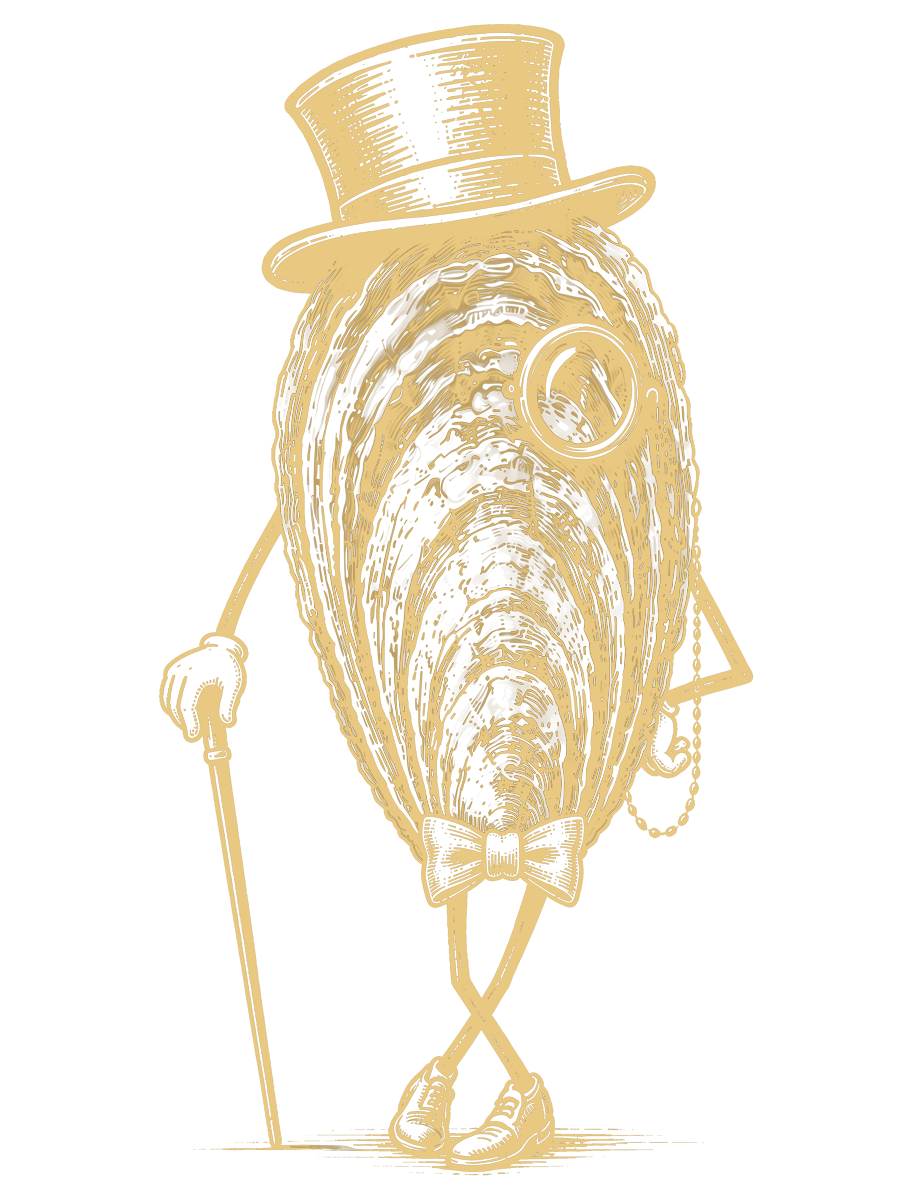
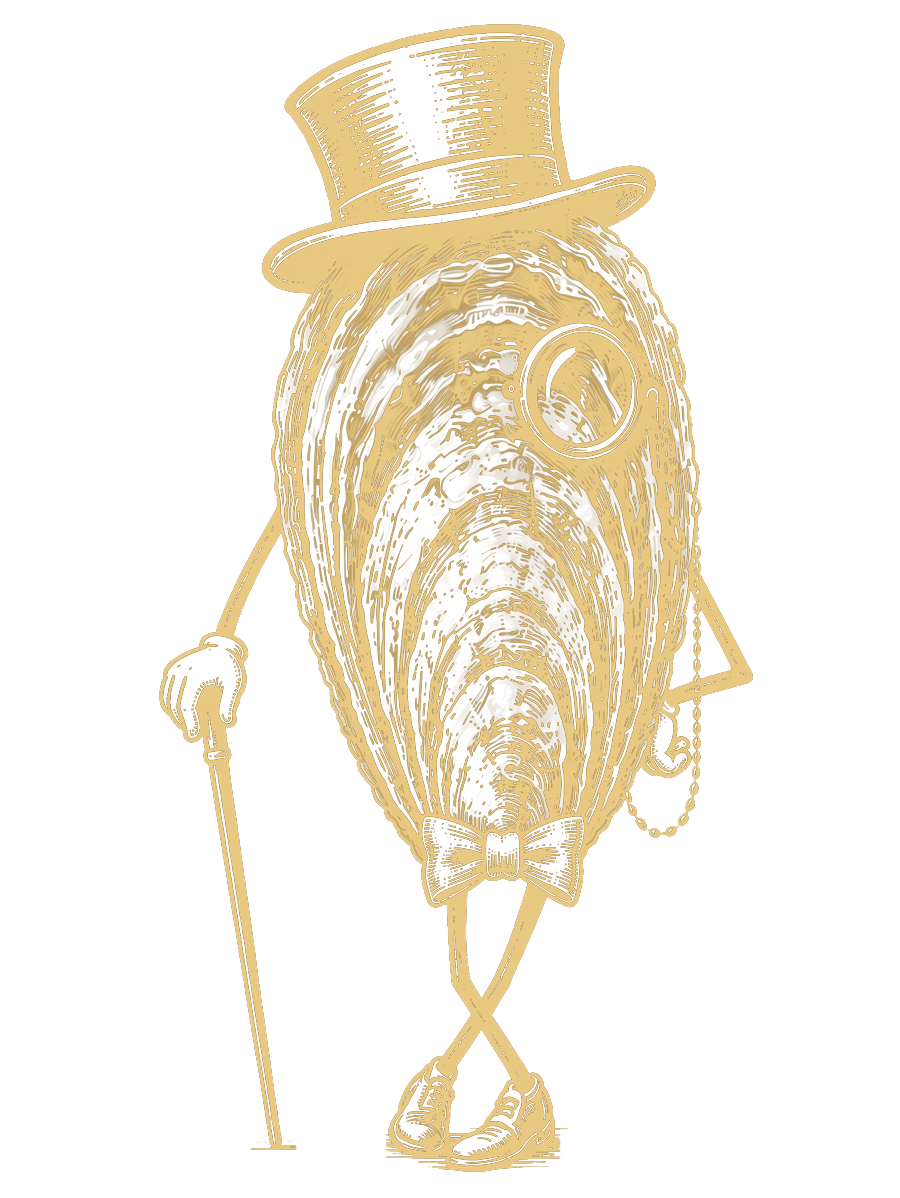
Maquettes : Navy N1 retravaillée (4 placements), Gold fondue (4 rendus), Gentleman mieux détouré
Claude-Session: https://claude.ai/code/session_012ueJSkHMqbZpvX7x5D3Dw2

diff --git a/drevici-preview/cabine/beltab-cartes-v3.html b/drevici-preview/cabine/beltab-cartes-v3.html
@@ -35,6 +35,8 @@ h1{margin:0 0 4px;font-size:26px;letter-spacing:-.02em}.sub{margin:0 0 22px;colo
 <section class="sec" id="gold"><h1>Carte VIP · Gold</h1><p class="sub">Pour les clients les plus fidèles. DREVICI OYSTER sur une ligne, « Carte membre · Gold », plus de « Gentleman Oyster », n° tout à droite.</p><div class="g" id="gGold"></div></section>
 <section class="sec" id="noir"><h1>Carte Staff · Noir</h1><p class="sub">Pour l'équipe. DREVICI / OYSTER sur deux lignes plus espacées, « Carte staff · 001 », « Membre depuis » remonté à la hauteur du code.</p><div class="g" id="gNoir"></div></section>
 <section class="sec" id="gold2"><h1>Carte VIP · Gold (or brossé + cadre)</h1><p class="sub">L'or passe en fond, le Gentleman en couleur bien visible, le double cadre de G2, et « Gold » placé autrement.</p><div class="g" id="gGold2"></div></section>
+<section class="sec" id="navy2"><h1>Carte Membre · Navy (N1 retravaillée)</h1><p class="sub">Fond uni de N4, cadre doré, filet rouge, BZH en or, Gentleman détouré proprement (plus de blanc entre les bras ni sous les pieds). 4 façons de placer « Carte membre ».</p><div class="g" id="gNavy2"></div></section>
+<section class="sec" id="gold3"><h1>Carte VIP · Gold, Gentleman fondu dans l'or</h1><p class="sub">Même carte (or brossé + double cadre, « Carte Gold »), 4 façons de fondre le Gentleman dans l'or.</p><div class="g" id="gGold3"></div></section>
 <section class="sec" id="carbone"><h1>Carte Staff · Carbone</h1><p class="sub">Base S4 carbone, « STAFF » en rouge, rouge très léger, 001 remonté.</p><div class="g" id="gCarb"></div></section>
 <script>
 const M='<img class="masc" src="gentleman.png" alt="" style="__">';
@@ -188,7 +190,63 @@ V.gold2=[['V1 · « Gold » en bas à droite','« Carte membre » en haut, et le
     <div class="wm1" style="left:26px;top:24px;color:#2b1f0b">DREVICI OYSTER</div><div class="bzh" style="left:26px;top:58px;color:#6b4b14">BZH<svg viewBox="0 0 24 24" width="10" height="10" fill="none" stroke="currentColor" stroke-width="2.4" stroke-linecap="round" style="vertical-align:-1px;margin-left:4px"><circle cx="12" cy="5" r="2.2"/><path d="M12 7.5V21M7 11h10M4.5 14.5c1 4 4 6.5 7.5 6.5s6.5-2.5 7.5-6.5"/></svg></div>
     <div class="kind" style="left:26px;top:94px;color:#6b4b14">Carte membre</div><div class="chip" style="left:26px;top:114px"></div><div class="no" style="right:26px;bottom:24px;color:#6b4b14">Gold · membre n°<b style="color:#2b1f0b">001</b></div>
     <div class="name" style="left:26px;bottom:46px;color:#2b1f0b">WILL</div><div class="code" style="left:26px;bottom:26px;color:#3a2a0c">CLUB · 4F7K</div>`]];
-const cls={navy:'navy',gold:'gold',noir:'noir',carbone:'noir',gold2:'gold'}, tgt={navy:'gNavy',gold:'gGold',noir:'gNoir',carbone:'gCarb',gold2:'gGold2'};
+
+V.navy2=[['A · Plus de « Carte membre »','Le mot disparaît : « Membre n° 001 » en bas à droite suffit à dire ce que c\'est. La carte respire.',`<div style="inset:9px;border:1px solid rgba(240,217,168,.6);border-radius:12px"></div>
+    ${M.replace('__','right:64px;filter:drop-shadow(0 6px 10px rgba(0,0,0,.4))')}
+    <div class="wm1" style="left:24px;top:22px">DREVICI OYSTER</div><div style="left:24px;top:53px;width:150px;height:2px;background:#d6413b"></div>
+    <div class="bzh" style="left:24px;top:62px;color:#f0d9a8">BZH<svg viewBox="0 0 24 24" width="10" height="10" fill="none" stroke="currentColor" stroke-width="2.4" stroke-linecap="round" style="vertical-align:-1px;margin-left:4px"><circle cx="12" cy="5" r="2.2"/><path d="M12 7.5V21M7 11h10M4.5 14.5c1 4 4 6.5 7.5 6.5s6.5-2.5 7.5-6.5"/></svg></div>
+    <div class="chip" style="left:24px;top:116px"></div>
+    <div class="name emb" style="left:24px;bottom:46px">WILL</div><div class="code" style="left:24px;bottom:26px;color:#cfd8ea">CLUB · 4F7K</div>
+    <div class="no" style="right:24px;bottom:24px;color:#9fb0d0">Membre n°<b style="color:#fff">001</b></div>`],['B · « Membre » au-dessus du nom','Un petit « Membre » doré juste au-dessus de WILL, comme sur une vraie carte bancaire.',`<div style="inset:9px;border:1px solid rgba(240,217,168,.6);border-radius:12px"></div>
+    ${M.replace('__','right:64px;filter:drop-shadow(0 6px 10px rgba(0,0,0,.4))')}
+    <div class="wm1" style="left:24px;top:22px">DREVICI OYSTER</div><div style="left:24px;top:53px;width:150px;height:2px;background:#d6413b"></div>
+    <div class="bzh" style="left:24px;top:62px;color:#f0d9a8">BZH<svg viewBox="0 0 24 24" width="10" height="10" fill="none" stroke="currentColor" stroke-width="2.4" stroke-linecap="round" style="vertical-align:-1px;margin-left:4px"><circle cx="12" cy="5" r="2.2"/><path d="M12 7.5V21M7 11h10M4.5 14.5c1 4 4 6.5 7.5 6.5s6.5-2.5 7.5-6.5"/></svg></div>
+    <div class="chip" style="left:24px;top:116px"></div>
+    <div class="name emb" style="left:24px;bottom:46px">WILL</div><div class="code" style="left:24px;bottom:26px;color:#cfd8ea">CLUB · 4F7K</div>
+    <div class="kind" style="left:24px;bottom:72px;color:#f0d9a8">Membre</div><div class="no" style="right:24px;bottom:24px;color:#9fb0d0">Membre n°<b style="color:#fff">001</b></div>`],['C · « Carte membre » en bas à droite','Déplacé en bas à droite, au-dessus du numéro, en tout petit.',`<div style="inset:9px;border:1px solid rgba(240,217,168,.6);border-radius:12px"></div>
+    ${M.replace('__','right:64px;filter:drop-shadow(0 6px 10px rgba(0,0,0,.4))')}
+    <div class="wm1" style="left:24px;top:22px">DREVICI OYSTER</div><div style="left:24px;top:53px;width:150px;height:2px;background:#d6413b"></div>
+    <div class="bzh" style="left:24px;top:62px;color:#f0d9a8">BZH<svg viewBox="0 0 24 24" width="10" height="10" fill="none" stroke="currentColor" stroke-width="2.4" stroke-linecap="round" style="vertical-align:-1px;margin-left:4px"><circle cx="12" cy="5" r="2.2"/><path d="M12 7.5V21M7 11h10M4.5 14.5c1 4 4 6.5 7.5 6.5s6.5-2.5 7.5-6.5"/></svg></div>
+    <div class="chip" style="left:24px;top:116px"></div>
+    <div class="name emb" style="left:24px;bottom:46px">WILL</div><div class="code" style="left:24px;bottom:26px;color:#cfd8ea">CLUB · 4F7K</div>
+    <div class="no" style="right:24px;bottom:24px;color:#9fb0d0">Carte membre · n°<b style="color:#fff">001</b></div>`],['D · Le long du bord','« Carte membre » écrit à la verticale le long du bord droit, très discret.',`<div style="inset:9px;border:1px solid rgba(240,217,168,.6);border-radius:12px"></div>
+    ${M.replace('__','right:64px;filter:drop-shadow(0 6px 10px rgba(0,0,0,.4))')}
+    <div class="wm1" style="left:24px;top:22px">DREVICI OYSTER</div><div style="left:24px;top:53px;width:150px;height:2px;background:#d6413b"></div>
+    <div class="bzh" style="left:24px;top:62px;color:#f0d9a8">BZH<svg viewBox="0 0 24 24" width="10" height="10" fill="none" stroke="currentColor" stroke-width="2.4" stroke-linecap="round" style="vertical-align:-1px;margin-left:4px"><circle cx="12" cy="5" r="2.2"/><path d="M12 7.5V21M7 11h10M4.5 14.5c1 4 4 6.5 7.5 6.5s6.5-2.5 7.5-6.5"/></svg></div>
+    <div class="chip" style="left:24px;top:116px"></div>
+    <div class="name emb" style="left:24px;bottom:46px">WILL</div><div class="code" style="left:24px;bottom:26px;color:#cfd8ea">CLUB · 4F7K</div>
+    <div class="kind" style="right:14px;top:50%;transform:translateY(-50%) rotate(90deg);transform-origin:right center;color:rgba(240,217,168,.75);font-size:8px;right:22px">Carte membre</div><div class="no" style="right:24px;bottom:24px;color:#9fb0d0">Membre n°<b style="color:#fff">001</b></div>`]];
+
+V.gold3=[['F1 · Encre dans l\'or','Le Gentleman « imprimé » dans l\'or (fusion multiplier) : il garde ses détails mais prend la couleur de la carte.',`<div style="inset:0;background:linear-gradient(125deg,#d4b06a 0%,#ecd39a 30%,#dcbd7c 50%,#f0dba8 68%,#cfa962 100%)"></div>
+    <div style="inset:0;background:repeating-linear-gradient(90deg,rgba(255,255,255,.07) 0 1px,transparent 1px 3px)"></div>
+    <div style="inset:9px;border:1.5px solid rgba(80,55,15,.5);border-radius:12px"></div><div style="inset:13px;border:.5px solid rgba(80,55,15,.4);border-radius:9px"></div>
+    <img class="masc" src="gentleman.png" alt="" style="right:62px;mix-blend-mode:multiply;opacity:.92">
+    <div class="wm1" style="left:26px;top:24px;color:#2b1f0b">DREVICI OYSTER</div><div class="bzh" style="left:26px;top:58px;color:#6b4b14">BZH<svg viewBox="0 0 24 24" width="10" height="10" fill="none" stroke="currentColor" stroke-width="2.4" stroke-linecap="round" style="vertical-align:-1px;margin-left:4px"><circle cx="12" cy="5" r="2.2"/><path d="M12 7.5V21M7 11h10M4.5 14.5c1 4 4 6.5 7.5 6.5s6.5-2.5 7.5-6.5"/></svg></div>
+    <div class="kind" style="left:26px;top:94px;color:#6b4b14">Carte Gold</div><div class="chip" style="left:26px;top:114px"></div>
+    <div class="name" style="left:26px;bottom:46px;color:#2b1f0b">WILL</div><div class="code" style="left:26px;bottom:26px;color:#3a2a0c">CLUB · 4F7K</div>
+    <div class="no" style="right:26px;bottom:24px;color:#6b4b14">Membre n°<b style="color:#2b1f0b">001</b></div>`],['F2 · Sépia doré','Teinte sépia puis fondu : les blancs deviennent dorés, les noirs brun profond.',`<div style="inset:0;background:linear-gradient(125deg,#d4b06a 0%,#ecd39a 30%,#dcbd7c 50%,#f0dba8 68%,#cfa962 100%)"></div>
+    <div style="inset:0;background:repeating-linear-gradient(90deg,rgba(255,255,255,.07) 0 1px,transparent 1px 3px)"></div>
+    <div style="inset:9px;border:1.5px solid rgba(80,55,15,.5);border-radius:12px"></div><div style="inset:13px;border:.5px solid rgba(80,55,15,.4);border-radius:9px"></div>
+    <img class="masc" src="gentleman.png" alt="" style="right:62px;filter:sepia(.7) saturate(1.1);mix-blend-mode:multiply;opacity:.9">
+    <div class="wm1" style="left:26px;top:24px;color:#2b1f0b">DREVICI OYSTER</div><div class="bzh" style="left:26px;top:58px;color:#6b4b14">BZH<svg viewBox="0 0 24 24" width="10" height="10" fill="none" stroke="currentColor" stroke-width="2.4" stroke-linecap="round" style="vertical-align:-1px;margin-left:4px"><circle cx="12" cy="5" r="2.2"/><path d="M12 7.5V21M7 11h10M4.5 14.5c1 4 4 6.5 7.5 6.5s6.5-2.5 7.5-6.5"/></svg></div>
+    <div class="kind" style="left:26px;top:94px;color:#6b4b14">Carte Gold</div><div class="chip" style="left:26px;top:114px"></div>
+    <div class="name" style="left:26px;bottom:46px;color:#2b1f0b">WILL</div><div class="code" style="left:26px;bottom:26px;color:#3a2a0c">CLUB · 4F7K</div>
+    <div class="no" style="right:26px;bottom:24px;color:#6b4b14">Membre n°<b style="color:#2b1f0b">001</b></div>`],['F3 · Gravure légère','Plus clair et plus transparent, comme une gravure dans le métal. Le plus discret.',`<div style="inset:0;background:linear-gradient(125deg,#d4b06a 0%,#ecd39a 30%,#dcbd7c 50%,#f0dba8 68%,#cfa962 100%)"></div>
+    <div style="inset:0;background:repeating-linear-gradient(90deg,rgba(255,255,255,.07) 0 1px,transparent 1px 3px)"></div>
+    <div style="inset:9px;border:1.5px solid rgba(80,55,15,.5);border-radius:12px"></div><div style="inset:13px;border:.5px solid rgba(80,55,15,.4);border-radius:9px"></div>
+    <img class="masc" src="gentleman.png" alt="" style="right:62px;filter:sepia(.5) contrast(1.05);mix-blend-mode:multiply;opacity:.7">
+    <div class="wm1" style="left:26px;top:24px;color:#2b1f0b">DREVICI OYSTER</div><div class="bzh" style="left:26px;top:58px;color:#6b4b14">BZH<svg viewBox="0 0 24 24" width="10" height="10" fill="none" stroke="currentColor" stroke-width="2.4" stroke-linecap="round" style="vertical-align:-1px;margin-left:4px"><circle cx="12" cy="5" r="2.2"/><path d="M12 7.5V21M7 11h10M4.5 14.5c1 4 4 6.5 7.5 6.5s6.5-2.5 7.5-6.5"/></svg></div>
+    <div class="kind" style="left:26px;top:94px;color:#6b4b14">Carte Gold</div><div class="chip" style="left:26px;top:114px"></div>
+    <div class="name" style="left:26px;bottom:46px;color:#2b1f0b">WILL</div><div class="code" style="left:26px;bottom:26px;color:#3a2a0c">CLUB · 4F7K</div>
+    <div class="no" style="right:26px;bottom:24px;color:#6b4b14">Membre n°<b style="color:#2b1f0b">001</b></div>`],['F4 · Doré profond','Version tout or (comme la carte staff mais en brun sur or) : un seul ton, très « carte métal ».',`<div style="inset:0;background:linear-gradient(125deg,#d4b06a 0%,#ecd39a 30%,#dcbd7c 50%,#f0dba8 68%,#cfa962 100%)"></div>
+    <div style="inset:0;background:repeating-linear-gradient(90deg,rgba(255,255,255,.07) 0 1px,transparent 1px 3px)"></div>
+    <div style="inset:9px;border:1.5px solid rgba(80,55,15,.5);border-radius:12px"></div><div style="inset:13px;border:.5px solid rgba(80,55,15,.4);border-radius:9px"></div>
+    <img class="masc" src="gentleman.png" alt="" style="right:62px;filter:sepia(1) saturate(1.4) brightness(.8) contrast(1.15);mix-blend-mode:multiply;opacity:.85">
+    <div class="wm1" style="left:26px;top:24px;color:#2b1f0b">DREVICI OYSTER</div><div class="bzh" style="left:26px;top:58px;color:#6b4b14">BZH<svg viewBox="0 0 24 24" width="10" height="10" fill="none" stroke="currentColor" stroke-width="2.4" stroke-linecap="round" style="vertical-align:-1px;margin-left:4px"><circle cx="12" cy="5" r="2.2"/><path d="M12 7.5V21M7 11h10M4.5 14.5c1 4 4 6.5 7.5 6.5s6.5-2.5 7.5-6.5"/></svg></div>
+    <div class="kind" style="left:26px;top:94px;color:#6b4b14">Carte Gold</div><div class="chip" style="left:26px;top:114px"></div>
+    <div class="name" style="left:26px;bottom:46px;color:#2b1f0b">WILL</div><div class="code" style="left:26px;bottom:26px;color:#3a2a0c">CLUB · 4F7K</div>
+    <div class="no" style="right:26px;bottom:24px;color:#6b4b14">Membre n°<b style="color:#2b1f0b">001</b></div>`]];
+const cls={navy:'navy',gold:'gold',noir:'noir',carbone:'noir',gold2:'gold',navy2:'navy',gold3:'gold'}, tgt={navy:'gNavy',gold:'gGold',noir:'gNoir',carbone:'gCarb',gold2:'gGold2',navy2:'gNavy2',gold3:'gGold3'};
 for(const k in V) document.getElementById(tgt[k]).innerHTML=V[k].map(([t,d,h])=>`<div><div class="lab"><b>${t}</b><span>${d}</span></div><div class="card ${cls[k]} sheen">${h}</div></div>`).join('');
 const show=(location.hash||'#navy').slice(1).split(',');
 document.querySelectorAll('.sec').forEach(s=>s.classList.toggle('on',show.includes(s.id)||show.includes('all')));
